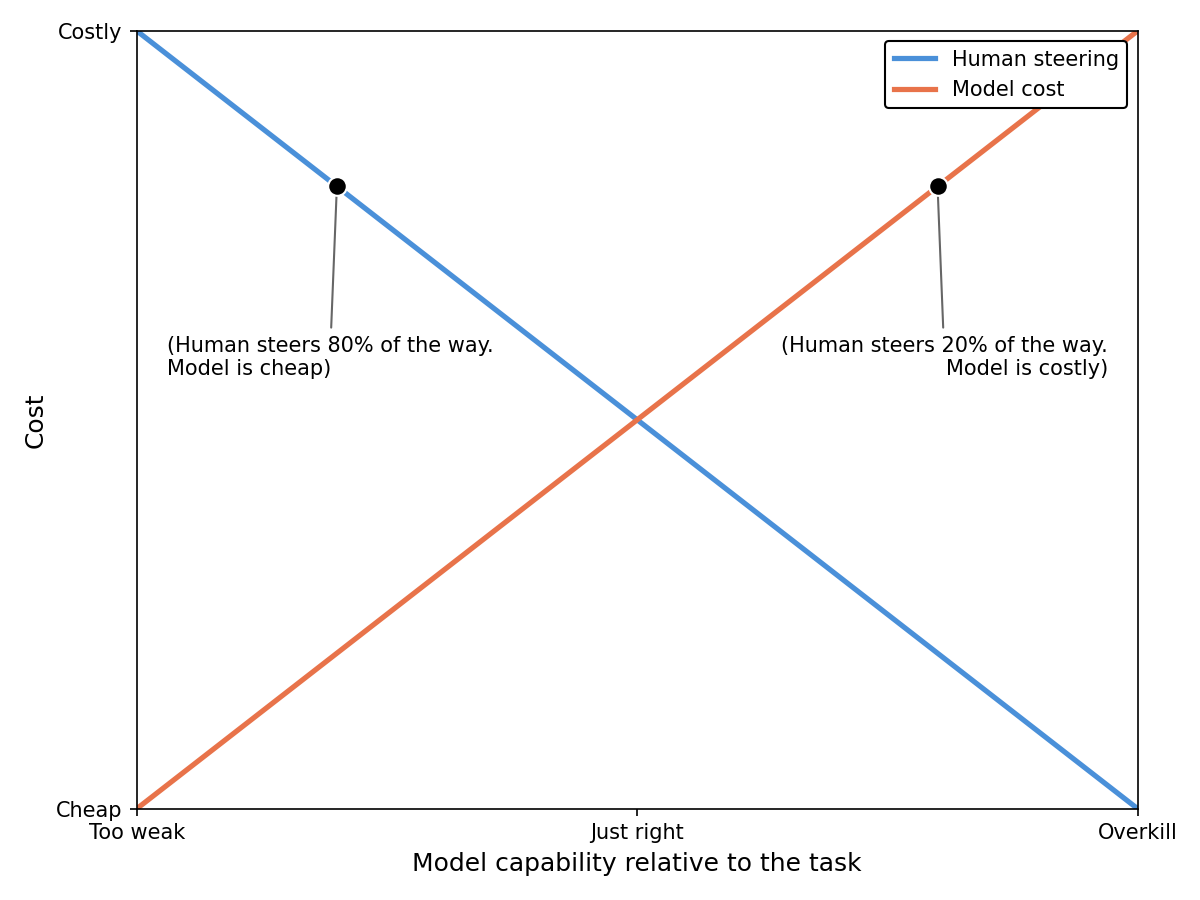
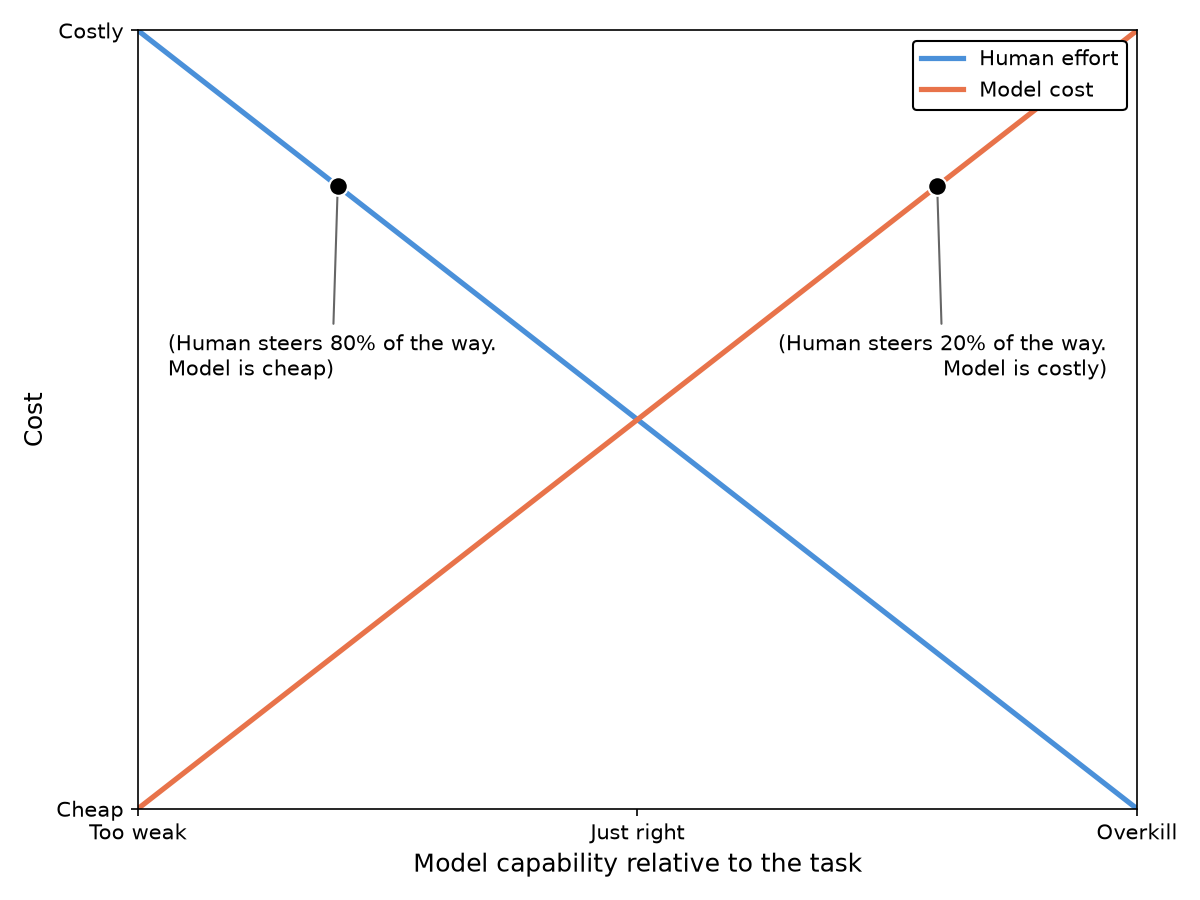
major reordering, some footnotes, etc

diff --git a/blog/capabilities/index.html b/blog/capabilities/index.html
@@ -3,7 +3,7 @@
 <head>
     <meta charset="utf-8"/>
     <meta name="viewport" content="width=device-width, initial-scale=1"/>
-    <meta name="source-hash" content="706540face4b3a30"/>
+    <meta name="source-hash" content="83e724812c07d228"/>
     <title>Deadweight Loss in AI</title>
     <script src="/dist/theme.js"></script>
     <script>try { localStorage.setItem('locale', 'en'); } catch (e) {}</script>
@@ -116,13 +116,13 @@
 <p><a href="https://cendyne.dev/posts/2026-10-11-fable-took-my-jorb.html">This</a> blog post by a developer laid off due to AI describes how their company chose to do layoffs because <em>&quot;AI assistance raised the capability of work for the less passionate, less experienced, and less costly workforce&quot;</em>. </p>
 <p>This isn&#39;t a new phenomenon. It&#39;s similar to how sewing machinery made jobs traditionally done by hand accessible to anyone anywhere who knew how to operate it, permitting offshoring in the &#39;60s. </p>
 <p>It&#39;s the reason why hiring for engineering jobs is shifting from being technically focused to highlighting traditionally undervalued skills, as I discuss toward the end of the post.</p>
-<p>We can map these concepts onto the first graph if we swap the Demand curve with Human steering and the Supply curve with Model cost. I assume more capable models are more expensive.</p>
+<p>We can map these concepts onto the first graph if we swap the Demand curve with Human effort and the Supply curve with Model cost. I assume more capable models are more expensive.</p>
 <p>When I write &quot;cost,&quot; I&#39;m talking about the compute needed to run an instance of a model. Bigger models are generally better and require more compute to run. </p>
 <p>I&#39;ll call it &quot;cost&quot; in the blog because it&#39;s what we ultimately deal with. Do note that compute and monetary cost will map one-to-one when the labs stop subsidizing tokens<sup><a id="footnote-ref-4" href="#footnote-4" data-footnote-ref aria-describedby="footnote-label">4</a></sup>. The plots assume they map one-to-one. </p>
-<p>The x-axis represents how capable a model is relative to the task: at the left, the model is too weak for it and cheap. At the right, it&#39;s overkill and expensive. The y-axis represents what you pay. The height of the human line is how much steering the model needs from you, as the height of the model line is what the model costs. The more capable the model, the less steering it needs and the more it costs.  </p>
-<p><img src="/blog/assets/figures/en/human-model-curves.png" data-light-src="/blog/assets/figures/en/human-model-curves-light.png" alt="Human steering and model cost plotted against how capable the model is relative to the task." title="Human Steering and Model Cost"></p>
+<p>The x-axis represents how capable a model is relative to the task: at the left, the model is too weak for it and cheap. At the right, it&#39;s overkill and expensive. The y-axis represents what you pay. The height of the human line is how much steering effort the model needs from you, as the height of the model line is what the model costs. The more capable the model, the less steering it needs and the more it costs.  </p>
+<p><img src="/blog/assets/figures/en/human-model-curves.png" data-light-src="/blog/assets/figures/en/human-model-curves-light.png" alt="Human effort and model cost plotted against how capable the model is relative to the task." title="Human Effort and Model Cost"></p>
 <p>A simple example to illustrate DWL in this graph is when frontier models are used for trivial work that a smaller model could do. E.g., changing the text on a page or running trivial git commands (when was the last time you prompted &#39;yes, push it&#39;?). </p>
-<p><img src="/blog/assets/figures/en/human-model-overreliance.png" data-light-src="/blog/assets/figures/en/human-model-overreliance-light.png" alt="Deadweight loss on the right side of the human steering and model cost graph, where a frontier model is used for a trivial task." title="Deadweight Loss From an Overpowered Model"></p>
+<p><img src="/blog/assets/figures/en/human-model-overreliance.png" data-light-src="/blog/assets/figures/en/human-model-overreliance-light.png" alt="Deadweight loss on the right side of the human effort and model cost graph, where a frontier model is used for a trivial task." title="Deadweight Loss From an Overpowered Model"></p>
 <p>The economic argument against this is obvious: you&#39;re using frontier tokens for trivial tasks. Ideally, you&#39;d want to save the cost.</p>
 <p>The practical argument is that if token spend wasn&#39;t a concern, it would probably be faster if you used a smaller model. Like if Cursor&#39;s Composer did it in 10 seconds rather than have Astra think for a minute. </p>
 <p>Even if your smart model was ultra fast, that is very expensive right now, so the economic argument still holds: others <em>could</em> do the same thing just as fast for cheaper if we had the systems to transfer context efficiently and on the spot. </p>
@@ -130,39 +130,41 @@
 <p>In the short to medium term, a system to auto-route prompts and tasks will become valuable to save unnecessary spending and time, especially if the token subsidies stop. Both for people using AI and systems within companies that are heavily token-subsidized<sup><a id="footnote-ref-5" href="#footnote-5" data-footnote-ref aria-describedby="footnote-label">5</a></sup>. </p>
 <p>Long-term, I expect frontier intelligence to become too cheap to meter and very fast. I call this a &#39;terminal&#39; class of models. Swiss Army knives that work well for &gt;= 90% of tasks and are near free to run (likeliest because they would use your phone or computer). The remaining 10% won&#39;t be tasks the model can&#39;t do, but tasks we wouldn&#39;t let it do alone, like aligning itself or controlling nuclear weapons. These fields will still need humans.</p>
 <p>Empirically, we&#39;ve seen progress in this direction when labs release smaller versions of their frontier models (Fable from Mythos, GPT 6.1 Sol from Astra) that are similarly capable for cheaper<sup><a id="footnote-ref-6" href="#footnote-6" data-footnote-ref aria-describedby="footnote-label">6</a></sup>. </p>
+<p>For now, overkill models will remain in use for simple tasks because they are generally more reliable. </p>
+<p>It&#39;s better to have it and not need it than to need it and not have it, and you might as well if you&#39;re not paying for most of it. There is no incentive yet to find equally good, cheaper, and perhaps deterministic alternatives. And there might not be one if the token subsidies last until we reach terminal models.</p>
 <p>What about DWL on the left side of the graph?</p>
 <p>I was recently experimenting with the Qwen family of models, running them locally on my computer with Ollama. It was disappointing. They know a lot and can pull off impressive tricks for a small model, but as soon as you throw a real task at them, they blow their context budgets overthinking unnecessary details.</p>
-<p><img src="/blog/assets/figures/en/human-model-underreliance.png" data-light-src="/blog/assets/figures/en/human-model-underreliance-light.png" alt="Deadweight loss on the left side of the human steering and model cost graph, where a small model needs heavy human guidance." title="Deadweight Loss From an Underpowered Model"></p>
+<p><img src="/blog/assets/figures/en/human-model-underreliance.png" data-light-src="/blog/assets/figures/en/human-model-underreliance-light.png" alt="Deadweight loss on the left side of the human effort and model cost graph, where a small model needs heavy human guidance." title="Deadweight Loss From an Underpowered Model"></p>
 <p>I could only get them to do what I wanted by pointing out the exact lines of code they had to look at. I even had to change some code by hand because even though I&#39;d tell them five times in a row to execute the change, it just thought, and thought, until its context overflowed. </p>
-<p>It also took me considerably longer to finish my project with Qwen because it needed so much handholding. I knew frontier models would&#39;ve done the task with a single prompt<sup><a id="footnote-ref-7" href="#footnote-7" data-footnote-ref aria-describedby="footnote-label">7</a></sup>. My mental load was heavier too: it is so much simpler to just prompt your way through with a frontier model. You don&#39;t really need to think. </p>
+<p>It also took me considerably longer to finish my project with Qwen because it needed so much handholding. I knew frontier models would&#39;ve done the task with a single prompt<sup><a id="footnote-ref-7" href="#footnote-7" data-footnote-ref aria-describedby="footnote-label">7</a></sup>. My mental load was heavier too: it is so much simpler to prompt your way through with a frontier model. You don&#39;t really need to think. </p>
 <p>Though, in my case, I was using a small model for the sake of experimentation. In the real world, DWL on the left is visible on tasks that the models aren&#39;t good at <em>yet</em>. Like the odd finance and ML research benchmarks or some computer use tasks. You still need people reviewing the models&#39; outputs and steering them.</p>
 <p>If accuracy can be quantified and the task is economically valuable, it will be conquered eventually, likeliest first at the frontier, shifting to the right. This is true of tasks where labs and startups have an interest in introducing automation. It&#39;s part of the diffusion process. </p>
-<p>In the graph, the equilibrium makes sense if you think about it as the model with the best speed, price, and intelligence for the task. </p>
-<p><img src="/blog/assets/figures/en/human-model-equilibrium.png" data-light-src="/blog/assets/figures/en/human-model-equilibrium-light.png" alt="Equilibrium between human steering and model cost, where the model is just right for the task." title="Equilibrium Between Human Steering and Model Cost"></p>
-<p>A &quot;DWL-optimized harness&quot; will be useful until we have terminal models, as costly intelligence diffuses to the economy and token usage grows by many orders of magnitude. Or indefinitely if governments introduce regulation that stalls the development of a terminal model and we settle into a status quo.</p>
-<p>It will make most tasks near free, fast, runnable on edge hardware<sup><a id="footnote-ref-8" href="#footnote-8" data-footnote-ref aria-describedby="footnote-label">8</a></sup>, and routable to the cloud when necessary. I see three technical challenges in the way:</p>
+<p>In the graph, the equilibrium makes sense if you think about it as the model with the right price and intelligence for the task. </p>
+<p>A model you could&#39;ve given the same prompt as a frontier model and obtained the same outcome because it&#39;s just as capable for that task. In this definition, human effort past the point of equilibrium is friction you save by always using the overall most capable model. </p>
+<p>You can get to equilibrium by using an already-capable smaller model for the task, or making your own through custom datasets and evaluations if one doesn&#39;t exist yet.</p>
+<p><img src="/blog/assets/figures/en/human-model-equilibrium.png" data-light-src="/blog/assets/figures/en/human-model-equilibrium-light.png" alt="Equilibrium between human effort and model cost, where the model is just right for the task." title="Equilibrium Between Human Effort and Model Cost"></p>
+<p>Until we achieve terminal models, equilibrium-optimized model harnesses, model routers and training environments will be useful as token usage grows across the economy. Or indefinitely if governments introduce regulation that stalls the development of a terminal model and we settle into a status quo.</p>
+<p>These will make most tasks near free, fast, runnable on edge hardware<sup><a id="footnote-ref-8" href="#footnote-8" data-footnote-ref aria-describedby="footnote-label">8</a></sup>, and routable to the cloud when necessary. I see three technical challenges in the way:</p>
 <ul>
-<li>Transferring context efficiently: how to transfer context between models at as close to zero cost and latency as possible. This matters for individual tasks and threads.</li>
-<li>Parallelism: if many models are doing many tasks, how can inference engines maximize GPU utilization and KV Cache / model weights offloading and reloading so every watt of compute is utilized constantly?</li>
-<li>Model Profiling: you don&#39;t need to route requests each time if you already know what models sit at equilibria. To my knowledge, there isn&#39;t an all-purpose toolkit to do this yet.</li>
+<li>Transferring context efficiently: for model harnesses, how to transfer context between models at as close to zero cost and latency as possible. This matters for individual tasks and threads.</li>
+<li>Parallelism: for model routers and infrastructure providers, how to maximize GPU utilization and KV Cache / model weights offloading and reloading so every watt of compute is utilized constantly?</li>
+<li>Model Profiling: for training environment companies, making easy-to-use tools anyone can use to find an already-capable model for a task or to train one.</li>
 </ul>
-<p>I expect that while intelligence is subsidized, companies and individuals will keep using frontier models because it feels like the safe choice and requires less steering. Budget-conscious organizations will make their own evals and perhaps even RL small models on them (like <a href="https://x.com/RampLabs/status/2052447438795833506">Ramp</a> did). </p>
-<p>But to diffuse AI into the wider economy, much work needs to be done on simple-to-use optimizers that small and medium-sized organizations can use to save on their token spend, both for individuals within an organization and for specific tasks. </p>
-<p>Paraphrased: Jev might be very cheap but your average store clerk or non-profit worker isn&#39;t gonna get an API key and make an eval to see if it beats Astra at their classification task. They&#39;d rather press a button or ask their agent and see the results to choose from.</p>
-<p>Getting there takes human effort: setting up the infrastructure and evals to find that model (both pre-selecting it or changing it at runtime). Whereas using a frontier model saves you the work but costs a lot.</p>
-<p>I expect this to change with harnesses that auto-route and simpler infrastructure for evaluating and training task-specific models. It is also nice that this is a defined engineering effort. If we get it right once, everyone benefits.</p>
-<p>The analogy also doesn&#39;t capture some qualitative aspects of models. Like how I&#39;d rather use Claude for anything conversational, or Codex for computer use. It doesn&#39;t capture how people begin to trust that a model will get it right 90% of the time and use it for specific work.</p>
-<p>It discounts qualitative differences in the character of different model lines. This is partly reconciled if we think of the x-axis as a model family, e.g., Haiku being underpowered, Sonnet generally balanced, and Opus often overkill.</p>
-<p>Together, both parts of the graph paint a cohesive story: the frontier will lay the groundwork at the toughest challenges in an expensive, inefficient way, while diffusion makes them economically viable and fast.</p>
-<p>I see two paths going forward for the future of work:</p>
+<p>Budget-conscious, technically able organizations like <a href="https://x.com/RampLabs/status/2052447438795833506">Ramp</a> are already trying their hand at these problems, making custom datasets to RL small models on and building their own <a href="https://router.com">model routers</a>.</p>
+<p>But to diffuse AI into the wider economy at its current price, much work needs to be done on simple-to-use optimizers that small and medium-sized organizations can use to save on their token spend, both for individuals within an organization and for specific tasks. </p>
+<p>Paraphrased: Jev might be very cheap but your average store clerk or non-profit worker isn&#39;t gonna get an API key and make an eval to see if it beats Astra at their classification task. They&#39;d rather press a button or ask their agent and see results to choose from.</p>
+<p>Though, it&#39;s nice that this is a defined engineering effort: if we get it right once, everyone benefits.</p>
+<p>I reckon model providers might be the first to arrive at a solution. It would be neat if Claude Code routed small tasks to Haiku while I talked with Opus. Subagents try to do this but aren&#39;t frictionless. Plus, I&#39;ve never met a non-coder using subagents. It should be automatic. </p>
+<p>Altogether, the graph paints a familiar story: the frontier will lay the groundwork for the toughest challenges in an expensive, inefficient way, while diffusion makes them economically viable and fast.<sup><a id="footnote-ref-9" href="#footnote-9" data-footnote-ref aria-describedby="footnote-label">9</a></sup> </p>
+<p>Thinking through this made me conclude there are two paths for the future of work:</p>
 <ul>
 <li>Skills that cannot be optimized against (yet) will become increasingly valuable. E.g., interpersonal communication, relationship building.</li>
-<li>If we do optimize everything optimizable (though I expect this to take a long while), we&#39;ll make different problems for ourselves that 
+<li>If we do optimize everything optimizable (though I expect this to take a long time), we&#39;ll make different problems for ourselves that 
 require skills outside the scope of optimization (see <a href="https://asteriskmag.com/issues/15/after-work-we-ll-have-each-other">this</a> essay).</li>
 </ul>
-<p>In either case, we&#39;ll be better off from it. It will provide healthcare and education for millions of people in underprivileged areas, enable massive social mobility - the works. That is, if we align it. </p>
-<p>What about work that is not part of the graph? That is, work that doesn&#39;t have a quantifiable &quot;right&quot; result, such as the arts, and work (e.g., products, media) that is completely new and doesn&#39;t have a point of comparison to define right from.</p>
-<p>If the model you&#39;re working with can do anything you ask<sup><a id="footnote-ref-9" href="#footnote-9" data-footnote-ref aria-describedby="footnote-label">9</a></sup>, &quot;right&quot; in a creative pursuit is entirely up to you. The model is perfectly matched to what you want it to do, so only you know where to stop (assuming the model is terminal).</p>
+<p>In either case, we&#39;ll be better off from it. It will provide healthcare and education for millions of underprivileged people, enable massive social mobility - the works. That is, if we align it. </p>
+<p>What about work that is not part of the graph? That is, work that doesn&#39;t have a &quot;right&quot; result, such as the arts, and work (e.g., products, media) that is completely new and doesn&#39;t have a point of comparison to define right from.</p>
+<p>If the model you&#39;re working with can do anything you ask<sup><a id="footnote-ref-10" href="#footnote-10" data-footnote-ref aria-describedby="footnote-label">10</a></sup>, &quot;right&quot; in a creative pursuit is entirely up to you. The model is perfectly matched to what you want it to do, so only you know where to stop (assuming the model is terminal).</p>
 <p>To illustrate this: had French sculptor Auguste Rodin had access to a machine that could sculpt anything he wanted, he would&#39;ve still spent a large amount of time tweaking his pieces and dialing in what they&#39;re meant to convey. Each is characterized by what the author was going through at the time, or the way he <em>chose</em> to portray other people.</p>
 <p>Rodin&#39;s <em>Monument to Balzac</em> is a good example. </p>
 <p><img src="/blog/assets/monument-to-balzac-the-met.jpg" alt="Detail of Auguste Rodin&#39;s Final Study for the Monument to Balzac: a bronze figure wrapped in a heavy cloak, head thrown back." title="Auguste Rodin, Final Study for the Monument to Balzac. The Metropolitan Museum of Art."></p>
@@ -210,7 +212,10 @@ require skills outside the scope of optimization (see <a href="https://asteriskm
 <p>Some early glimpses of inference at the edge are starting to show, as Anthropic detailed in <a href="https://www.anthropic.com/research/self-replicating-ai">this</a> recent report. I expect phones and laptops to do most inference within this decade. <a href="#footnote-ref-8" data-footnote-backref aria-label="Back to reference 8">↩</a></p>
 </li>
 <li id="footnote-9">
-<p>This is already true in some domains, just not frictionless yet. <a href="#footnote-ref-9" data-footnote-backref aria-label="Back to reference 9">↩</a></p>
+<p>This pattern actually repeats through much of history, like how facial reconstruction was invented to treat scarred soldiers during WWI or how Tesla began by selling a luxury car, then funneling down to average consumers. New, good technologies are developed at great cost, often for a very small number of users, to later become mainstream. <a href="#footnote-ref-9" data-footnote-backref aria-label="Back to reference 9">↩</a></p>
+</li>
+<li id="footnote-10">
+<p>This is already true in some domains, just not frictionless yet. <a href="#footnote-ref-10" data-footnote-backref aria-label="Back to reference 10">↩</a></p>
 </li>
 </ol>
 </section>

diff --git a/blog/assets/code/supply-demand-curves.py b/blog/assets/code/supply-demand-curves.py
@@ -48,7 +48,7 @@ LOCALE_LABELS = {
         'quantity': 'Quantity', 'price': 'Price',
         'demand_curve': 'Demand curve', 'supply_curve': 'Supply curve',
         'capability': 'Model capability relative to the task', 'cost': 'Cost',
-        'human_steering': 'Human steering', 'model_cost': 'Model cost',
+        'human_steering': 'Human effort', 'model_cost': 'Model cost',
         'too_weak': 'Too weak', 'just_right': 'Just right', 'overkill': 'Overkill',
         'cheap': 'Cheap', 'costly': 'Costly',
         'point': '(Costs {price} and {quantity} buy it. Net = {net})',

diff --git a/blog/posts/capabilities.md b/blog/posts/capabilities.md
@@ -62,19 +62,19 @@ This isn't a new phenomenon. It's similar to how sewing machinery made jobs trad
 
 It's the reason why hiring for engineering jobs is shifting from being technically focused to highlighting traditionally undervalued skills, as I discuss toward the end of the post.
 
-We can map these concepts onto the first graph if we swap the Demand curve with Human steering and the Supply curve with Model cost. I assume more capable models are more expensive.
+We can map these concepts onto the first graph if we swap the Demand curve with Human effort and the Supply curve with Model cost. I assume more capable models are more expensive.
 
 When I write "cost," I'm talking about the compute needed to run an instance of a model. Bigger models are generally better and require more compute to run. 
 
 I'll call it "cost" in the blog because it's what we ultimately deal with. Do note that compute and monetary cost will map one-to-one when the labs stop subsidizing tokens[^4]. The plots assume they map one-to-one. 
 
-The x-axis represents how capable a model is relative to the task: at the left, the model is too weak for it and cheap. At the right, it's overkill and expensive. The y-axis represents what you pay. The height of the human line is how much steering the model needs from you, as the height of the model line is what the model costs. The more capable the model, the less steering it needs and the more it costs.  
+The x-axis represents how capable a model is relative to the task: at the left, the model is too weak for it and cheap. At the right, it's overkill and expensive. The y-axis represents what you pay. The height of the human line is how much steering effort the model needs from you, as the height of the model line is what the model costs. The more capable the model, the less steering it needs and the more it costs.  
 
-![Human steering and model cost plotted against how capable the model is relative to the task.](/blog/assets/figures/en/human-model-curves.png "Human Steering and Model Cost")
+![Human effort and model cost plotted against how capable the model is relative to the task.](/blog/assets/figures/en/human-model-curves.png "Human Effort and Model Cost")
 
 A simple example to illustrate DWL in this graph is when frontier models are used for trivial work that a smaller model could do. E.g., changing the text on a page or running trivial git commands (when was the last time you prompted 'yes, push it'?). 
 
-![Deadweight loss on the right side of the human steering and model cost graph, where a frontier model is used for a trivial task.](/blog/assets/figures/en/human-model-overreliance.png "Deadweight Loss From an Overpowered Model")
+![Deadweight loss on the right side of the human effort and model cost graph, where a frontier model is used for a trivial task.](/blog/assets/figures/en/human-model-overreliance.png "Deadweight Loss From an Overpowered Model")
 
 The economic argument against this is obvious: you're using frontier tokens for trivial tasks. Ideally, you'd want to save the cost.
 
@@ -90,58 +90,62 @@ Long-term, I expect frontier intelligence to become too cheap to meter and very 
 
 Empirically, we've seen progress in this direction when labs release smaller versions of their frontier models (Fable from Mythos, GPT 6.1 Sol from Astra) that are similarly capable for cheaper[^6]. 
 
+For now, overkill models will remain in use for simple tasks because they are generally more reliable. 
+
+It's better to have it and not need it than to need it and not have it, and you might as well if you're not paying for most of it. There is no incentive yet to find equally good, cheaper, and perhaps deterministic alternatives. And there might not be one if the token subsidies last until we reach terminal models.
+
 What about DWL on the left side of the graph?
 
 I was recently experimenting with the Qwen family of models, running them locally on my computer with Ollama. It was disappointing. They know a lot and can pull off impressive tricks for a small model, but as soon as you throw a real task at them, they blow their context budgets overthinking unnecessary details.
 
-![Deadweight loss on the left side of the human steering and model cost graph, where a small model needs heavy human guidance.](/blog/assets/figures/en/human-model-underreliance.png "Deadweight Loss From an Underpowered Model")
+![Deadweight loss on the left side of the human effort and model cost graph, where a small model needs heavy human guidance.](/blog/assets/figures/en/human-model-underreliance.png "Deadweight Loss From an Underpowered Model")
 
 I could only get them to do what I wanted by pointing out the exact lines of code they had to look at. I even had to change some code by hand because even though I'd tell them five times in a row to execute the change, it just thought, and thought, until its context overflowed. 
 
-It also took me considerably longer to finish my project with Qwen because it needed so much handholding. I knew frontier models would've done the task with a single prompt[^7]. My mental load was heavier too: it is so much simpler to just prompt your way through with a frontier model. You don't really need to think. 
+It also took me considerably longer to finish my project with Qwen because it needed so much handholding. I knew frontier models would've done the task with a single prompt[^7]. My mental load was heavier too: it is so much simpler to prompt your way through with a frontier model. You don't really need to think. 
 
 Though, in my case, I was using a small model for the sake of experimentation. In the real world, DWL on the left is visible on tasks that the models aren't good at *yet*. Like the odd finance and ML research benchmarks or some computer use tasks. You still need people reviewing the models' outputs and steering them.
 
 If accuracy can be quantified and the task is economically valuable, it will be conquered eventually, likeliest first at the frontier, shifting to the right. This is true of tasks where labs and startups have an interest in introducing automation. It's part of the diffusion process. 
 
-In the graph, the equilibrium makes sense if you think about it as the model with the best speed, price, and intelligence for the task. 
+In the graph, the equilibrium makes sense if you think about it as the model with the right price and intelligence for the task. 
 
-![Equilibrium between human steering and model cost, where the model is just right for the task.](/blog/assets/figures/en/human-model-equilibrium.png "Equilibrium Between Human Steering and Model Cost")
+A model you could've given the same prompt as a frontier model and obtained the same outcome because it's just as capable for that task. In this definition, human effort past the point of equilibrium is friction you save by always using the overall most capable model. 
 
-A "DWL-optimized harness" will be useful until we have terminal models, as costly intelligence diffuses to the economy and token usage grows by many orders of magnitude. Or indefinitely if governments introduce regulation that stalls the development of a terminal model and we settle into a status quo.
+You can get to equilibrium by using an already-capable smaller model for the task, or making your own through custom datasets and evaluations if one doesn't exist yet.
 
-It will make most tasks near free, fast, runnable on edge hardware[^8], and routable to the cloud when necessary. I see three technical challenges in the way:
+![Equilibrium between human effort and model cost, where the model is just right for the task.](/blog/assets/figures/en/human-model-equilibrium.png "Equilibrium Between Human Effort and Model Cost")
 
-- Transferring context efficiently: how to transfer context between models at as close to zero cost and latency as possible. This matters for individual tasks and threads.
-- Parallelism: if many models are doing many tasks, how can inference engines maximize GPU utilization and KV Cache / model weights offloading and reloading so every watt of compute is utilized constantly?
-- Model Profiling: you don't need to route requests each time if you already know what models sit at equilibria. To my knowledge, there isn't an all-purpose toolkit to do this yet. 
+Until we achieve terminal models, equilibrium-optimized model harnesses, model routers and training environments will be useful as token usage grows across the economy. Or indefinitely if governments introduce regulation that stalls the development of a terminal model and we settle into a status quo.
 
-I expect that while intelligence is subsidized, companies and individuals will keep using frontier models because it feels like the safe choice and requires less steering. Budget-conscious organizations will make their own evals and perhaps even RL small models on them (like [Ramp](https://x.com/RampLabs/status/2052447438795833506) did). 
+These will make most tasks near free, fast, runnable on edge hardware[^8], and routable to the cloud when necessary. I see three technical challenges in the way:
 
-But to diffuse AI into the wider economy, much work needs to be done on simple-to-use optimizers that small and medium-sized organizations can use to save on their token spend, both for individuals within an organization and for specific tasks. 
+- Transferring context efficiently: for model harnesses, how to transfer context between models at as close to zero cost and latency as possible. This matters for individual tasks and threads.
+- Parallelism: for model routers and infrastructure providers, how to maximize GPU utilization and KV Cache / model weights offloading and reloading so every watt of compute is utilized constantly?
+- Model Profiling: for training environment companies, making easy-to-use tools anyone can use to find an already-capable model for a task or to train one. 
 
-Paraphrased: Jev might be very cheap but your average store clerk or non-profit worker isn't gonna get an API key and make an eval to see if it beats Astra at their classification task. They'd rather press a button or ask their agent and see the results to choose from.
+Budget-conscious, technically able organizations like [Ramp](https://x.com/RampLabs/status/2052447438795833506) are already trying their hand at these problems, making custom datasets to RL small models on and building their own [model routers](https://router.com).
 
-Getting there takes human effort: setting up the infrastructure and evals to find that model (both pre-selecting it or changing it at runtime). Whereas using a frontier model saves you the work but costs a lot.
+But to diffuse AI into the wider economy at its current price, much work needs to be done on simple-to-use optimizers that small and medium-sized organizations can use to save on their token spend, both for individuals within an organization and for specific tasks. 
 
-I expect this to change with harnesses that auto-route and simpler infrastructure for evaluating and training task-specific models. It is also nice that this is a defined engineering effort. If we get it right once, everyone benefits.
+Paraphrased: Jev might be very cheap but your average store clerk or non-profit worker isn't gonna get an API key and make an eval to see if it beats Astra at their classification task. They'd rather press a button or ask their agent and see results to choose from.
 
-The analogy also doesn't capture some qualitative aspects of models. Like how I'd rather use Claude for anything conversational, or Codex for computer use. It doesn't capture how people begin to trust that a model will get it right 90% of the time and use it for specific work.
+Though, it's nice that this is a defined engineering effort: if we get it right once, everyone benefits.
 
-It discounts qualitative differences in the character of different model lines. This is partly reconciled if we think of the x-axis as a model family, e.g., Haiku being underpowered, Sonnet generally balanced, and Opus often overkill.
+I reckon model providers might be the first to arrive at a solution. It would be neat if Claude Code routed small tasks to Haiku while I talked with Opus. Subagents try to do this but aren't frictionless. Plus, I've never met a non-coder using subagents. It should be automatic. 
 
-Together, both parts of the graph paint a cohesive story: the frontier will lay the groundwork at the toughest challenges in an expensive, inefficient way, while diffusion makes them economically viable and fast.
+Altogether, the graph paints a familiar story: the frontier will lay the groundwork for the toughest challenges in an expensive, inefficient way, while diffusion makes them economically viable and fast.[^9] 
 
-I see two paths going forward for the future of work:
+Thinking through this made me conclude there are two paths for the future of work:
 - Skills that cannot be optimized against (yet) will become increasingly valuable. E.g., interpersonal communication, relationship building.
-- If we do optimize everything optimizable (though I expect this to take a long while), we'll make different problems for ourselves that 
+- If we do optimize everything optimizable (though I expect this to take a long time), we'll make different problems for ourselves that 
 require skills outside the scope of optimization (see [this](https://asteriskmag.com/issues/15/after-work-we-ll-have-each-other) essay).
 
-In either case, we'll be better off from it. It will provide healthcare and education for millions of people in underprivileged areas, enable massive social mobility - the works. That is, if we align it. 
+In either case, we'll be better off from it. It will provide healthcare and education for millions of underprivileged people, enable massive social mobility - the works. That is, if we align it. 
 
-What about work that is not part of the graph? That is, work that doesn't have a quantifiable "right" result, such as the arts, and work (e.g., products, media) that is completely new and doesn't have a point of comparison to define right from.
+What about work that is not part of the graph? That is, work that doesn't have a "right" result, such as the arts, and work (e.g., products, media) that is completely new and doesn't have a point of comparison to define right from.
 
-If the model you're working with can do anything you ask[^9], "right" in a creative pursuit is entirely up to you. The model is perfectly matched to what you want it to do, so only you know where to stop (assuming the model is terminal).
+If the model you're working with can do anything you ask[^10], "right" in a creative pursuit is entirely up to you. The model is perfectly matched to what you want it to do, so only you know where to stop (assuming the model is terminal).
 
 To illustrate this: had French sculptor Auguste Rodin had access to a machine that could sculpt anything he wanted, he would've still spent a large amount of time tweaking his pieces and dialing in what they're meant to convey. Each is characterized by what the author was going through at the time, or the way he *chose* to portray other people.
 
@@ -197,4 +201,6 @@ You'd have needed an economist that's into AI or a computer scientist that reads
 
 [^8]: Some early glimpses of inference at the edge are starting to show, as Anthropic detailed in [this](https://www.anthropic.com/research/self-replicating-ai) recent report. I expect phones and laptops to do most inference within this decade.
 
-[^9]: This is already true in some domains, just not frictionless yet.
+[^9]: This pattern actually repeats through much of history, like how facial reconstruction was invented to treat scarred soldiers during WWI or how Tesla began by selling a luxury car, then funneling down to average consumers. New, good technologies are developed at great cost, often for a very small number of users, to later become mainstream.
+
+[^10]: This is already true in some domains, just not frictionless yet.
